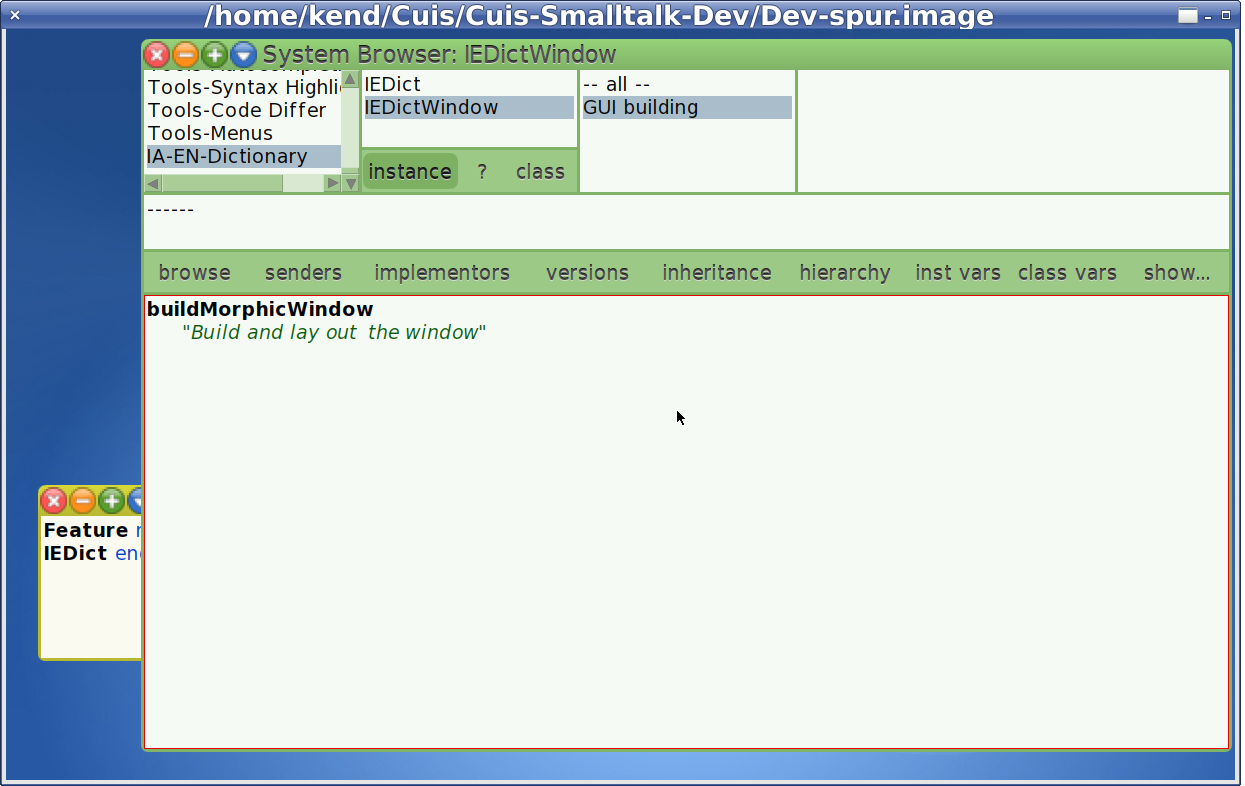
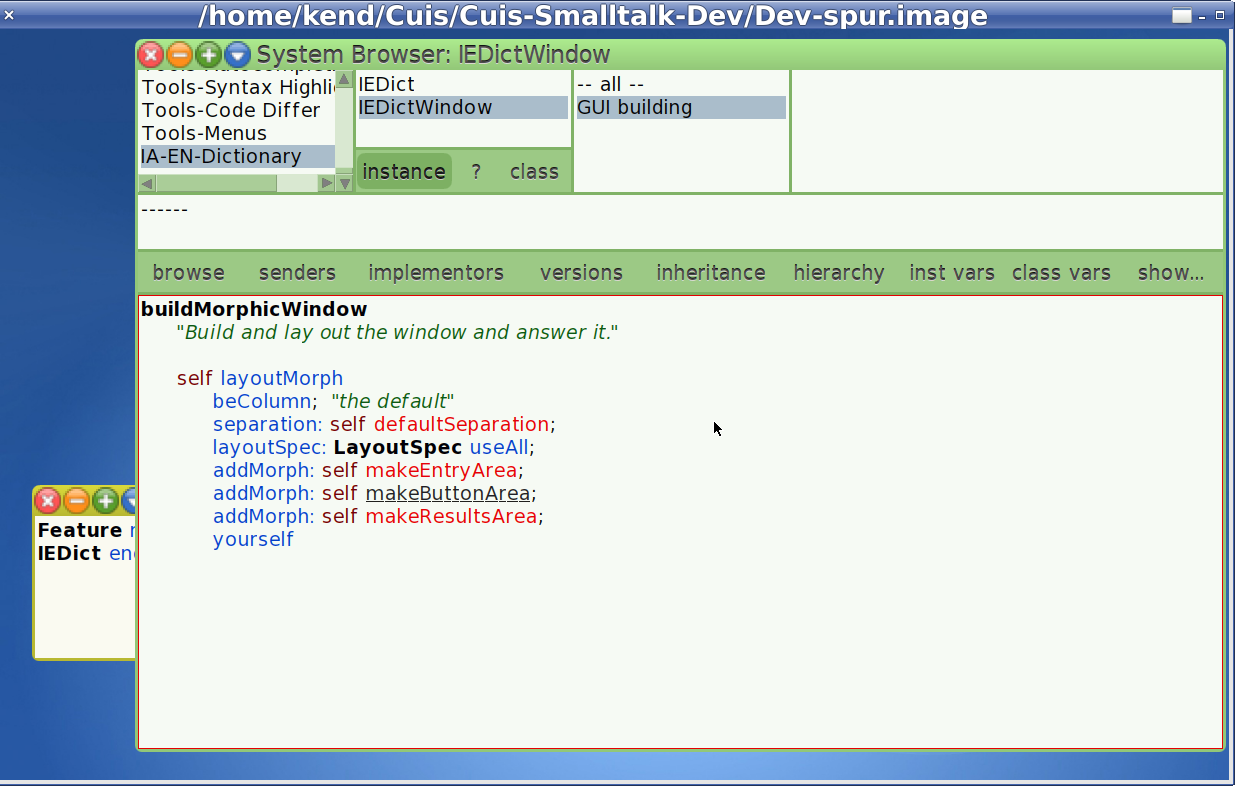
added

diff --git a/SamplePackage3.md b/SamplePackage3.md
@@ -22,4 +22,52 @@ Looking at the desired result, I see a column of
 
 So let's write this down.
 
+![Cuis Window](SamplePkg/Sample-Package-043.png)
+
+Note that when I Accept this method, I get repeated warnings about undefined methods and options to change the text to known methods.
+
+I just select the top line of the menu (the original test) to confirm that this is the choice I want.
+
+OK.  Let's define all those methods.
+
+I'll start with the most complex one: `makeEntryArea`
+
+The LayoutMorph returned is a row with the prompt ('Enter text: ') and a OneLineEditorMorph where the user can type words to be matched.
+
+````Smalltalk
+makeEntryArea
+	"Answer a LayoutMoph containing the prompt and text entry area"
+	
+	| entryLayout entryHeigth |
+	entryHeigth := self defaultSeparation * 2 + self textSizeUnit.
+	
+	entryLayout := LayoutMorph newRow.
+	
+	promptMorph := (StringMorph contents: 'Enter Text: ') 
+					emphasis: 1; 
+					yourself.
+	promptMorph  layoutSpec: 
+		(LayoutSpec 
+			proportionalWidth: 0.3; 
+		   	fixedWidth: (promptMorph measureContents x)).
+			
+	entryTextMorph := (OneLineEditorMorph contents: 'salute'). "initial text"
+	entryTextMorph 
+		crAction: [self interlinguaContainsClick]; "Same action as IA-Contains button"
+		layoutSpec: 
+			(LayoutSpec proportionalWidth: 0.9).
+			
+	^ entryLayout 
+		separation: self defaultSeparation;
+		layoutSpec: (LayoutSpec proportionalWidth: 1 fixedHeight: entryHeigth);
+		addMorph: promptMorph;
+		addMorph: entryTextMorph;
+		padding: #left
+		yourself
+````
+
+Here is what the text above looks like when pasted in the code editor (just select the buildMorphicWindow text with Cmd-a and replace).
+
+![Cuis Window](SamplePkg/Sample-Package-043.png)
+
 @@@
